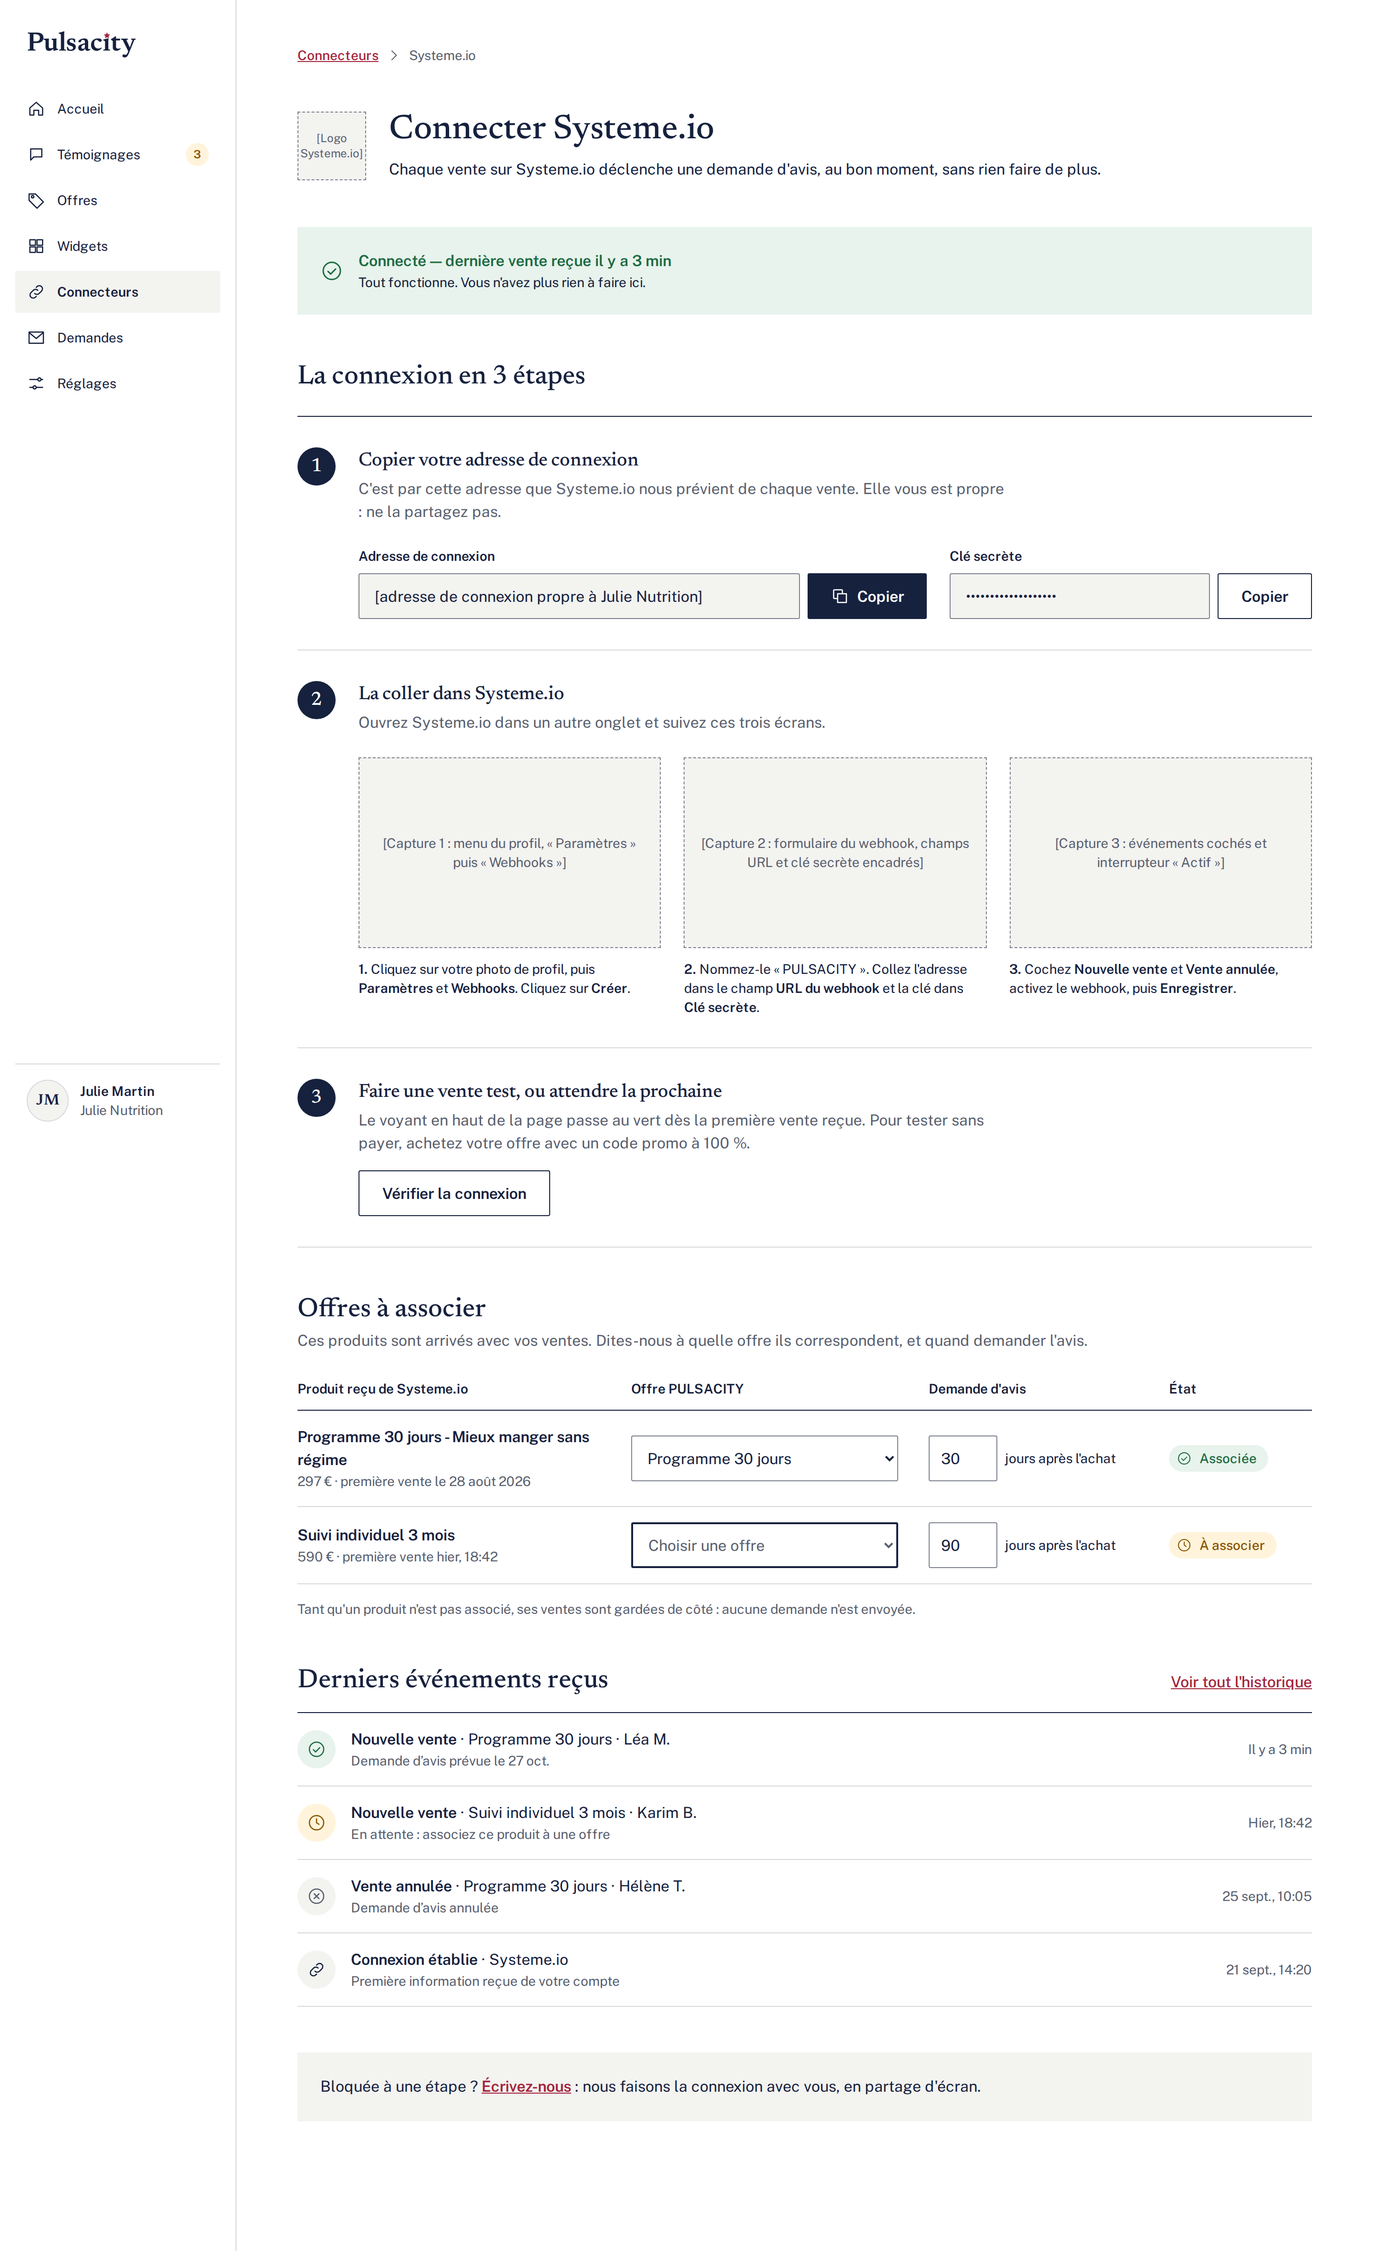
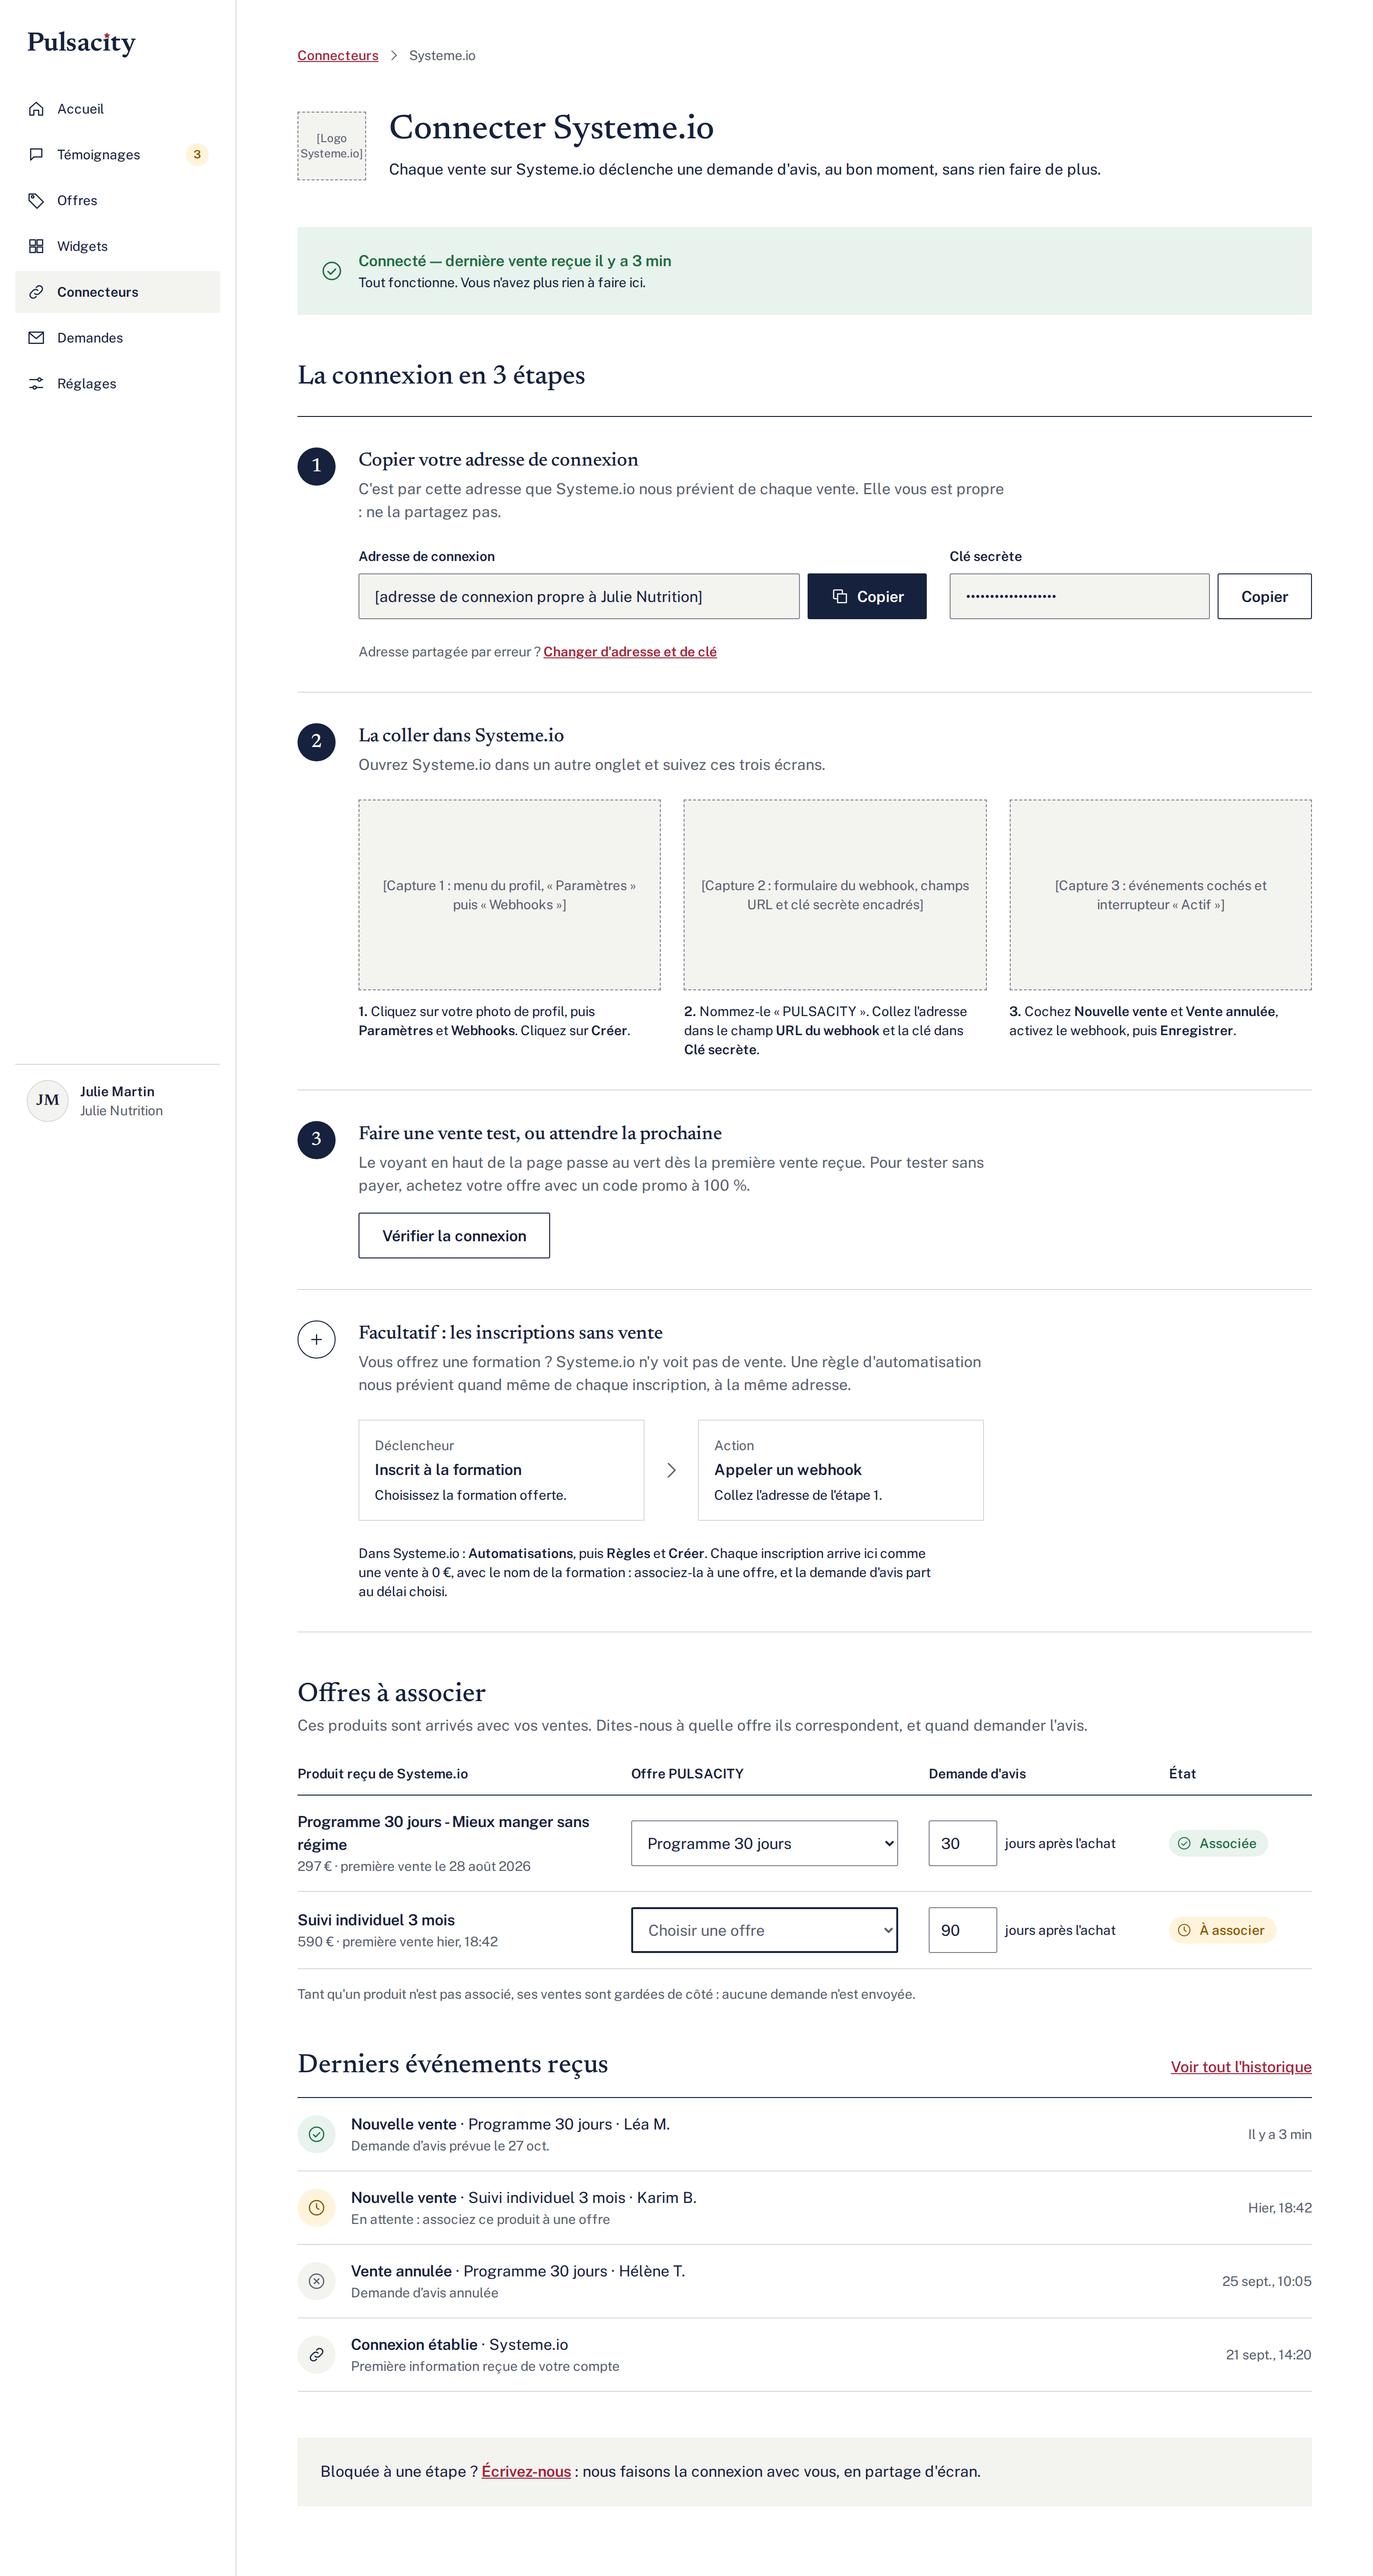
Add the maquettes of 3 October, record the production check of lot 6, and move the send schedule off the quarter hours
Design delivered m19 (Demandes), the m5 additions (phone, key mismatch, change of address,
enrolments) and the m1 unsubscribe page. Prompt 7: the real Systeme.io sale reached production and
planned its request, but the GitHub schedule had not run once since the merge; GitHub delays or
drops the quarter hours the most, so the workflow now runs at minutes 7, 22, 37 and 52.

Claude-Session: https://claude.ai/code/session_014NBEZqjQrc19JDtwzVHMkZ

diff --git a/docs-internes/etat.md b/docs-internes/etat.md
@@ -1,6 +1,6 @@
 # État du projet
 
-Mis à jour le 3 octobre 2026, avec la PR #23 : le lot 6 (moteur de connecteurs, Systeme.io, demandes d'avis, désinscription) est construit et attend sa recette (`docs-internes/recette/lot-6-connecteurs.md`). Le lot 5 (widget, PR #20 à #22) est en ligne et vérifié sur une vraie page Systeme.io. À lire au début de chaque session, et à mettre à jour à chaque fusion sur `main`.
+Mis à jour le 3 octobre 2026. Le lot 6 (PR #23 : moteur de connecteurs, Systeme.io, demandes d'avis, désinscription) est en ligne ; sa vérification en production attend le premier envoi automatique. La PR suivante aligne Demandes, Connecteurs et la désinscription sur les maquettes du 3 octobre (m19, m5, m1). À lire au début de chaque session, et à mettre à jour à chaque fusion sur `main`.
 
 ## En ligne sur pulsacity.com
 
@@ -10,9 +10,10 @@ Mis à jour le 3 octobre 2026, avec la PR #23 : le lot 6 (moteur de connecteurs,
 - Ajout manuel (m15), import CSV (m16) et page Offres (m17), avec les corrections de la recette du lot 4, recettés sur l'aperçu (PR #19).
 - Widget, maquettes 2 et 6 : `w.js` (mur, carrousel, badge), JSON public `/api/widget/[id]` en cache à la périphérie, pages Widgets et éditeur avec aperçu en direct, guide « Coller dans Systeme.io » (PR #20). Vérifié le 2 octobre sur une vraie page Systeme.io.
 - Suite du widget, maquettes du 2 octobre : liste m18, éditeur sur téléphone, nom du widget, coins des cartes, code qui nomme le type, chargements du carrousel et du badge (PR #21). Vérifié le 2 octobre sur la page Systeme.io, avec 15 avis.
+- Lot 6, connecteurs et demandes : moteur de connecteurs, connecteur Systeme.io, pages Connecteurs et Demandes, offres à associer, e-mails de demande et de relance, désinscription (PR #23, fusionnée le 3 octobre, migration 0006 appliquée en production).
 - Trois environnements : local, recette sur chaque aperçu Vercel, migrations de production lancées à chaque fusion et attendues par Vercel avant la mise en ligne (PR #16).
 
-## Construit dans la PR #23 (lot 6), en recette
+## Lot 6 (PR #23), en ligne depuis le 3 octobre
 
 - Moteur de connecteurs : `/api/connectors/[connector]/[token]` résout le connecteur par le registre (`src/lib/connectors/registry.ts`) et la connexion par son jeton, 404 silencieux sinon. Le corps brut et les en-têtes vont dans `webhook_events`, la réponse 200 part tout de suite, le traitement suit (`after()`), et la tâche d'envoi rattrape un événement resté non traité. Le cœur (`src/lib/purchases/record-purchase.ts`) ne connaît que `NormalizedPurchase`. Ajouter un connecteur : son dossier et une ligne dans le registre (prouvé le 3 octobre avec un faux connecteur « test », puis retiré ; un test Vitest garde la preuve).
 - Connecteur Systeme.io : « Nouvelle vente » (signée, HMAC-SHA256 du corps brut) et « Inscrit à la formation » (règle d'automatisation, non signée, authentifiée par le jeton de l'adresse). Tests sur les fixtures réelles.
@@ -28,6 +29,21 @@ Mis à jour le 3 octobre 2026, avec la PR #23 : le lot 6 (moteur de connecteurs,
 - Prompt 6 (360 px) : mise en page conforme, mais le filtre « Statut » de Demandes ne filtrait pas (nom du paramètre importé d'un composant client dans la page serveur). Corrigé et vérifié dans le conteneur ; contre-recette : prompt 6 bis.
 - Prompt 6 bis (contre-recette) : 7 points sur 7. L'ordre et le filtre de Demandes sont conformes, à 1 536 px et à 360 px. Le menu natif du filtre ne réagit pas aux clics de Claude in Chrome dans un cadre de 360 px : à essayer au doigt sur un vrai téléphone.
 - Le logo de l'e-mail « Nouveau témoignage » ne s'affiche pas depuis un aperçu (image protégée par Vercel Authentication) : rien à corriger, la production le sert à tous.
+
+## Vérification du lot 6 en production (3 octobre)
+
+- Prompt 7, sur l'espace de production « Recette Nutrition » : webhook « PULSACITY » créé dans Systeme.io, adresse et clé collées par le fondateur, « Nouvelle vente » et « Vente annulée » cochées. Vraie commande à 13:30 (produit physique à 1 €, paiement à la livraison, tunnel créé pour le test) : l'événement arrive en moins d'une minute, le voyant passe au vert, le produit s'associe à l'offre (délai 0 jour) et la demande est « Planifiée · Part au prochain envoi ».
+- Point 12 manqué : 25 minutes après, la demande n'était pas partie. Le workflow « Send review requests » n'avait encore jamais tourné tout seul depuis la fusion : GitHub tarde parfois à démarrer un nouveau planning, surtout aux quarts d'heure pleins, les plus chargés. Claude Code l'a lancé à la main à 14:00 (heure de Paris) ; le résultat est à vérifier par le fondateur (Actions, Demandes, boîte de test). Le planning passe aux minutes 7, 22, 37 et 52.
+- Restent : remettre le délai de l'offre de test à 14 jours une fois l'e-mail reçu ; désactiver le paiement à la livraison et le tunnel de test dans Systeme.io.
+
+## Maquettes de Design du 3 octobre (prompt 8)
+
+- 19 PNG dans `docs-internes/maquettes/`, index mis à jour : m19 Demandes (liste, filtre « Planifiées », plan Gratuit à 20 demandes, vide, planche des statuts), m5 (téléphone, clé différente, changer d'adresse et de clé, étape facultative des inscriptions), m1 (désinscription confirmée).
+- Badges de Demandes, sans nouvelle couleur : Planifiée sur Papier ; Envoyée et Relancée en blanc cerclé d'Encre ; Annulée en pointillé Gris 400, texte Ardoise ; Complétée et Échec en Succès et Erreur.
+- Étape facultative : Design supposait qu'une inscription arrive comme une vente à 0 €. Les formats capturés disent autre chose : c'est un événement à part (« Inscrit à la formation »), sans prix, associé à une offre comme un produit.
+- Captures des réglages Systeme.io : Design recommande les vraies, recadrées sur la zone utile, le champ encadré en Encre, refaites quand Systeme.io change. Elles demandent le compte Systeme.io du fondateur : prompt Claude in Chrome à prévoir ; les dessins restent en attendant.
+- Logos : un logo officiel seulement avec l'accord écrit de Systeme.io et de Calendly (aucun kit officiel trouvé ; le badge partenaire de Stripe est réservé à ses partenaires). En attendant, le nom en texte, comme aujourd'hui (l'initiale dans une case).
+- Signature des e-mails : pas d'adresse postale du créateur. Le pied d'e-mail portera celle de PULSACITY, qui envoie le message, avec le nom de l'espace et le lien de désinscription (à faire valider). Prénom et ville : deux champs facultatifs, « Signature » et « Ville », dans Réglages, rubrique E-mails, hors de l'onboarding ; sans prénom, l'e-mail signe du nom de l'espace.
 
 ## Pas encore construit
 
@@ -93,13 +109,15 @@ Mis à jour le 3 octobre 2026, avec la PR #23 : le lot 6 (moteur de connecteurs,
 
 ## À faire
 
-1. Lot 6 : recette sur l'aperçu faite le 3 octobre (prompts 1 à 6 bis). Restent, après la fusion de la PR #23 : le prompt 7 de `docs-internes/recette/lot-6-connecteurs.md` (vraie vente Systeme.io en production, envoi automatique par le workflow « Send review requests »), le prompt 8 pour Design, et un essai au doigt du filtre « Statut » de Demandes sur le téléphone du fondateur.
-2. Toujours en attente du lot 5 : prompt 2 de `docs-internes/recette/lot-5-widget-fin.md` (mur d'une colonne sous 340 px sur la page Systeme.io) et contrôle au doigt du carrousel sur le téléphone du fondateur.
-3. Régime de TVA de l'entité qui facture PULSACITY, à confirmer avec l'expert-comptable avant le lot Stripe (`decision_tarifs.md`).
-4. Dépôt public ou privé : décision du fondateur (en privé, protéger `main` demande GitHub Pro).
-5. Sentry, avant le lancement.
-6. Plan Vercel : sur Hobby, Vercel Cron ne tourne qu'une fois par jour ; le workflow GitHub fait les 15 minutes. Passer à Pro permettrait de remettre la tâche toutes les 15 minutes dans `vercel.json` et de retirer le workflow. Décision du fondateur, sans urgence.
-7. Prochain lot : au choix du fondateur, parmi « Pas encore construit » ci-dessus.
+1. Lot 6 : vérifier l'envoi lancé à la main le 3 octobre à 14:00 (prompt 7, point 12), puis que « Send review requests » tourne seul ; remettre le délai de l'offre de test à 14 jours ; essai au doigt du filtre « Statut » de Demandes sur le téléphone du fondateur.
+2. PR suivante : Demandes (m19), Connecteurs (m5) et désinscription (m1) selon les maquettes du 3 octobre.
+3. Captures réelles des réglages Systeme.io, par un prompt Claude in Chrome sur le compte du fondateur.
+4. Toujours en attente du lot 5 : prompt 2 de `docs-internes/recette/lot-5-widget-fin.md` (mur d'une colonne sous 340 px sur la page Systeme.io) et contrôle au doigt du carrousel sur le téléphone du fondateur.
+5. Régime de TVA de l'entité qui facture PULSACITY, à confirmer avec l'expert-comptable avant le lot Stripe (`decision_tarifs.md`).
+6. Dépôt public ou privé : décision du fondateur (en privé, protéger `main` demande GitHub Pro).
+7. Sentry, avant le lancement.
+8. Plan Vercel : sur Hobby, Vercel Cron ne tourne qu'une fois par jour ; le workflow GitHub fait les 15 minutes. Si GitHub laisse des trous de plus d'une heure pendant quelques jours, passer à Pro (20 $ par mois) permettra de remettre la tâche toutes les 15 minutes dans `vercel.json` et de retirer le workflow. Décision du fondateur.
+9. Prochain lot : au choix du fondateur, parmi « Pas encore construit » ci-dessus.
 
 Remarques de la recette, à reprendre quand on touchera ces écrans :
 - la photo met 3 à 5 secondes à s'afficher (adresse r2.dev, déjà prévue avant le lancement) et le récapitulatif après l'envoi ne la montre pas ;

diff --git a/docs-internes/maquettes/INDEX.md b/docs-internes/maquettes/INDEX.md
@@ -292,3 +292,37 @@ La planche « Micro-animations · démo » est interactive (mode Play) et n'a pa
 | m18-widgets-desktop-03-vide.png | Widgets · État vide · 1440 |
 
 Corrigés dans ce lot : m6-editeur-desktop-01 à 06 (champ « Nom du widget », réglage « Coins des cartes ») ; m6-editeur-desktop-06 (montre bien « Code copié ») ; m8-tarifs-desktop-02 (montre bien l’annuel) ; m4-espace-desktop-04 (sans pastille d’attente).
+
+
+# Demandes, connecteurs, désinscription — 3 oct. 2026
+
+## m19 — Demandes (page « Demandes »)
+| Fichier | Planche · état |
+| --- | --- |
+| m19-demandes-mobile-01-liste.png | Demandes · Liste · 360 |
+| m19-demandes-desktop-01-liste.png | Demandes · Liste · 1440 |
+| m19-demandes-mobile-02-filtre-planifiees.png | Demandes · Filtre « Planifiées » · 360 |
+| m19-demandes-desktop-02-filtre-planifiees.png | Demandes · Filtre « Planifiées » · 1440 |
+| m19-demandes-mobile-03-quota-gratuit.png | Demandes · Plan Gratuit, 20 demandes envoyées · 360 |
+| m19-demandes-desktop-03-quota-gratuit.png | Demandes · Plan Gratuit, 20 demandes envoyées · 1440 |
+| m19-demandes-mobile-04-vide.png | Demandes · État vide · 360 |
+| m19-demandes-desktop-04-vide.png | Demandes · État vide · 1440 |
+| m19-demandes-composant-statuts.png | Composant · statuts des demandes |
+
+## m5 — Connecteurs (ajouts)
+| Fichier | Planche · état |
+| --- | --- |
+| m5-connecteurs-mobile-01-liste.png | Connecteurs · page générale · 360 |
+| m5-connecteurs-mobile-02-systemeio-connecte.png | Connecteurs › Systeme.io · 360 |
+| m5-connecteurs-mobile-03-cle-differente.png | Systeme.io · vente gardée de côté (clé différente) · 360 |
+| m5-connecteurs-mobile-04-changer-adresse.png | Systeme.io · changer d’adresse et de clé · 360 |
+| m5-connecteurs-desktop-06-cle-differente.png | Systeme.io · vente gardée de côté (clé différente) |
+| m5-connecteurs-desktop-07-changer-adresse.png | Systeme.io · changer d’adresse et de clé |
+
+## m1 — Page de collecte (ajout)
+| Fichier | Planche · état |
+| --- | --- |
+| m1-collecte-mobile-06-desinscription.png | Collecte · Désinscription confirmée · 360 |
+| m1-collecte-desktop-06-desinscription.png | Collecte · Désinscription confirmée · 1440 |
+
+Modifié dans ce lot : m5-connecteurs-desktop-02-systemeio-connecte (lien « Changer d’adresse et de clé » sous l’étape 1, étape facultative « inscriptions sans vente »).
